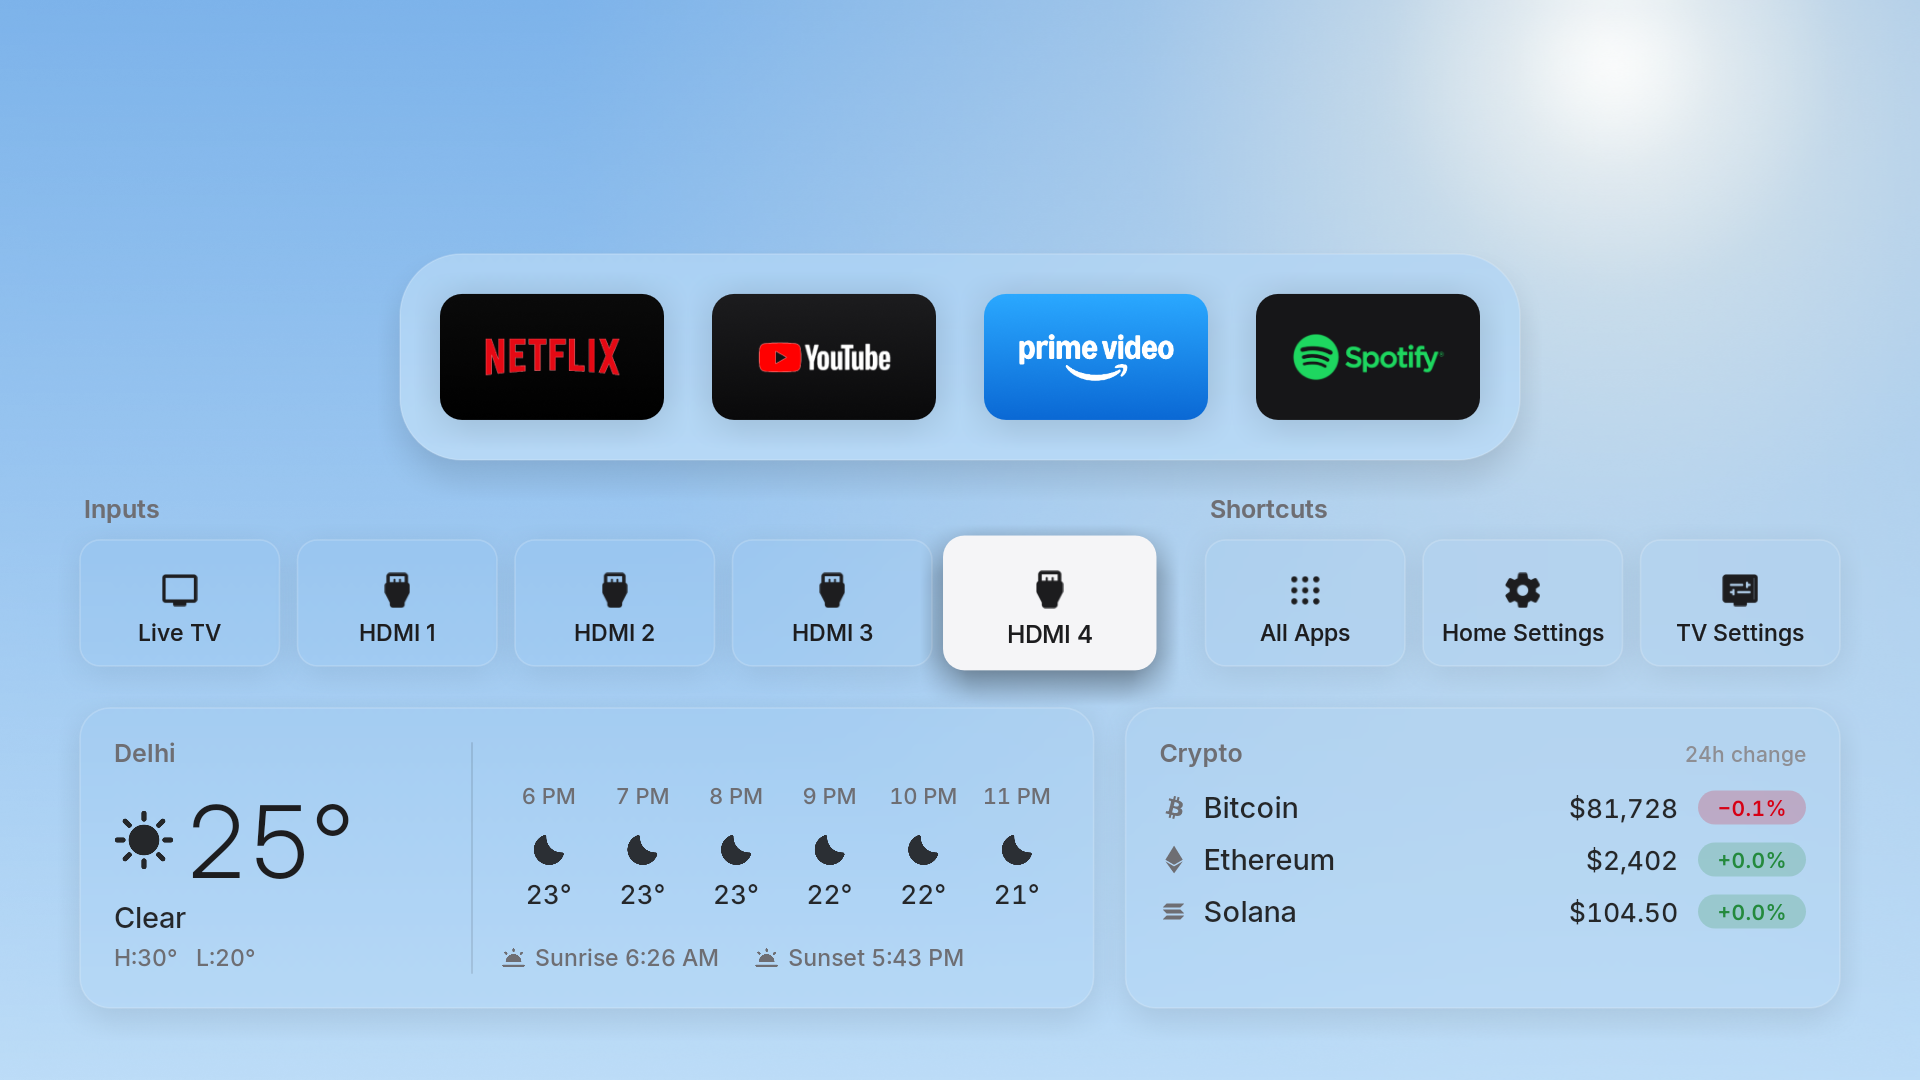
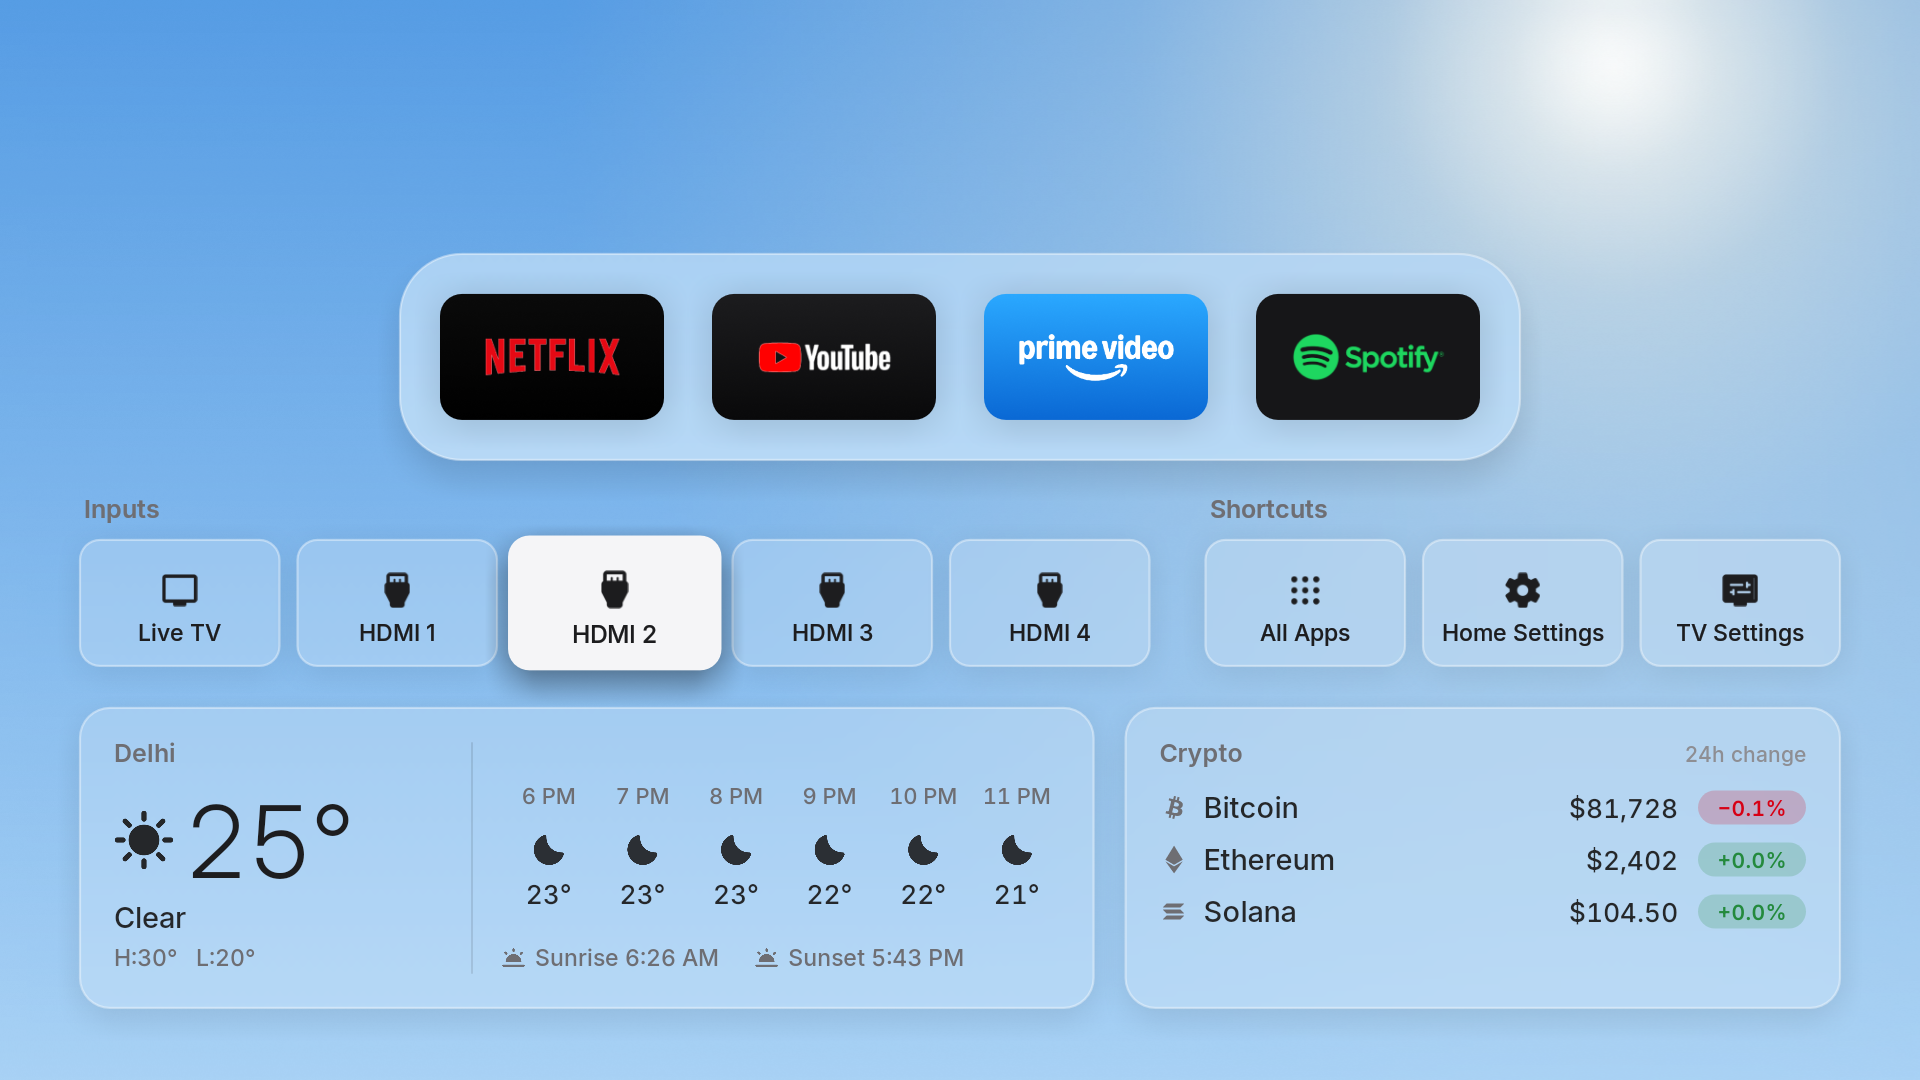
Drawer glass: keep the sky's color, clearer edges
Opening the drawer washed the sky 32% toward white by day, so the frosted
cards faded into it; now 12%. The glass rim without AGSL is brighter and a
little thicker, so the cards read like the shelf's dock.

Changed region(s): [[0.0, 0.0, 0.6562, 0.7944]]

diff --git a/app/src/main/java/io/sundartv/HomeView.java b/app/src/main/java/io/sundartv/HomeView.java
@@ -2861,7 +2861,8 @@ final class HomeView extends ViewGroup implements Choreographer.FrameCallback, H
         float e = bgFadeAt == 0 ? 1 : fadeEase(bgFadeAt, up);
         boolean fading = bgFadeAt != 0;
         // Drawer open: the background lightens (by day) or darkens (at night), as a filter on the drawing itself.
-        android.graphics.ColorFilter v = veil(tone(0.32f, 0.42f) * Ui.clamp(drawer.value), blend(0xFFFFFFFF, 0xFF000000, night));
+        // Lightly: the frosted cards need the sky's color behind them to stand out (a strong wash made them fade in).
+        android.graphics.ColorFilter v = veil(tone(0.12f, 0.3f) * Ui.clamp(drawer.value), blend(0xFFFFFFFF, 0xFF000000, night));
         if (bgTo == null || (fading && bgFrom == null)) {
             updateSky();
             // The glass shows this sky, frosted (day or night); redrawn when that switches.

diff --git a/app/src/main/java/io/sundartv/Scene.java b/app/src/main/java/io/sundartv/Scene.java
@@ -72,8 +72,9 @@ final class Scene {
         }
         auroraNode.setUseCompositingLayer(true, layerPaint);
         flatRim.setStyle(Paint.Style.STROKE);
-        flatRim.setColor(0x33FFFFFF);
-        flatRim.setStrokeWidth(1.5f);
+        // Without AGSL the rim is what shapes the glass: bright enough to read like the edge of a pane.
+        flatRim.setColor(0x66FFFFFF);
+        flatRim.setStrokeWidth(2.2f);
     }
 
     void setSize(int width, int height) {
